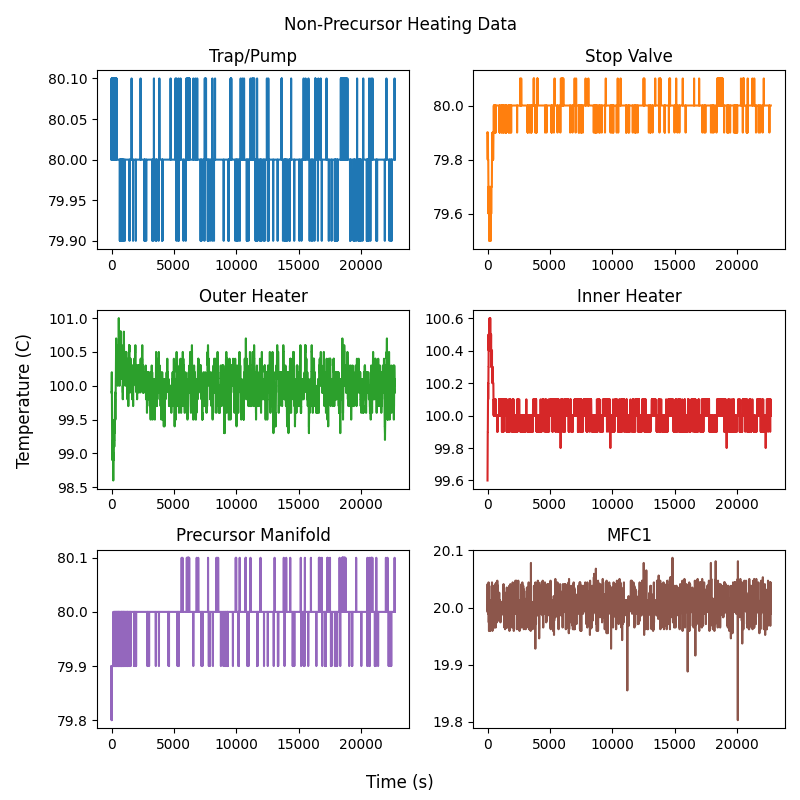
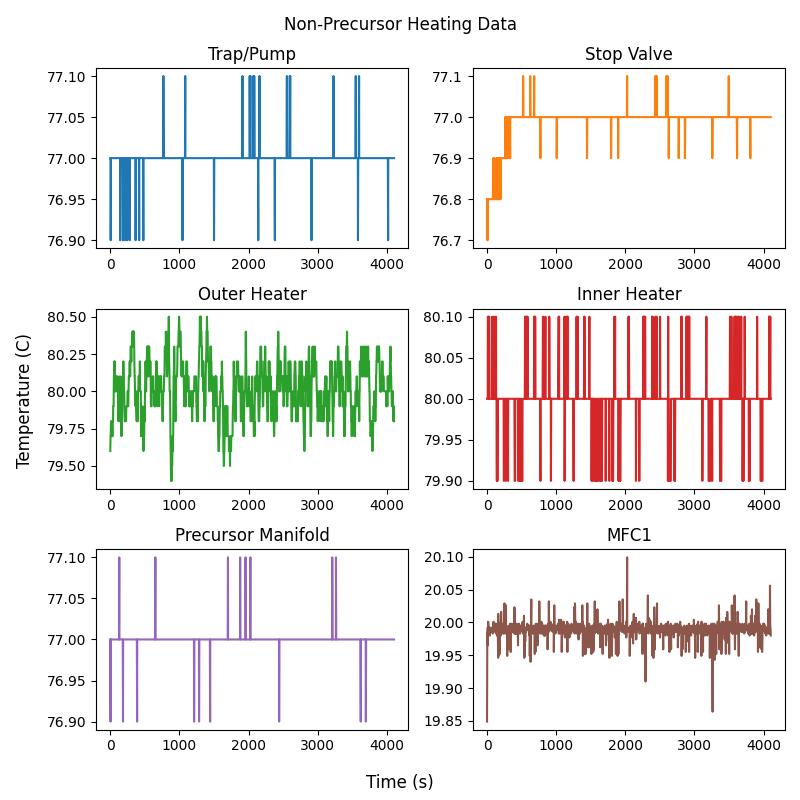
improved heating and pressure, working on updating gui info

diff --git a/testGUI.py b/testGUI.py
@@ -2,8 +2,7 @@ import tkinter as tk
 from tkinter import *
 from PIL import Image, ImageTk
 
-
-# default number of entries = 5 (Approx 8 seconds to load if all enourmous files)
+# default number of entries = 5
 e = 5
 
 from Pressure import Pressure
@@ -31,11 +30,11 @@ def save_and_open_new_window():
         root.destroy()  # Close the current window
         open_new_window()
 
-
 def quit_app():
     root.quit()
 
-
+def on_vertical(event):
+    canvas.yview_scroll(-1 * event.delta, 'units')
 
 def open_new_window():
     new_window = tk.Tk()
@@ -47,16 +46,9 @@ def open_new_window():
     frame.pack(fill=tk.BOTH, expand=True)
 
     # Create a canvas
+    global canvas
     canvas = tk.Canvas(frame)
     canvas.pack(side=tk.LEFT, fill=tk.BOTH, expand=True)
-
-
-    def on_vertical(event):
-        canvas.yview_scroll(-1 * event.delta, 'units')
-
-
-    # def on_horizontal(event):
-    #     canvas.xview_scroll(-1 * event.delta, 'units')
 
     # Add a scrollbar to the canvas
     scrollbar = tk.Scrollbar(frame, orient=tk.VERTICAL, command=canvas.yview)
@@ -68,81 +60,37 @@ def open_new_window():
 
     # Bind the scroll wheel event
     canvas.bind_all('<MouseWheel>', on_vertical)
-    # canvas.bind_all('<Shift-MouseWheel>', on_horizontal)
 
     # Create another frame inside the canvas
-    
+    global second_frame
     second_frame = tk.Frame(canvas)
     canvas.create_window((0, 0), window=second_frame, anchor="nw")
 
-    
-    # for i in range(50):  # Add many labels to demonstrate the scrollbar
-    #     tk.Label(second_frame, text=f"Additional content {i + 1}").pack()
-
-    text_image_frame = tk.Frame(second_frame, bd=2, relief="groove")
-    text_image_frame.pack(pady=20, padx=20, fill=tk.X)
-
-
-
-    generate_reports(second_frame)
-    # Update the scroll region and scroll to the bottom
-    second_frame.update_idletasks()  # Ensure all widgets are drawn
-    canvas.configure(scrollregion=canvas.bbox("all"))
-    canvas.yview_moveto(1.0)  # Scroll to the bottom
-
-    # # Add a label for text
-    # h = Heating("/Users/andrew/Desktop/SNF Projects/Tool-Data/Heating-Data/2024_06_13-21-21_MV standard Al2O3 4wtr pulse first 80deg.txt", "/Users/andrew/Desktop/SNF Projects/Tool-Data/Heating-Data")
-    # p = Pressure("/Users/andrew/Desktop/SNF Projects/Tool-Data/Pressure-Data/2024_06_13-12-56_Al2O3 - STANDARD.txt", "/Users/andrew/Desktop/SNF Projects/Tool-Data/Pressure-Data")
-    # imageh = "/Users/andrew/Desktop/SNF Projects/Tool-Data/Output_Plots/Precursor Heating Data.png"
-    # imagep = "/Users/andrew/Desktop/SNF Projects/Tool-Data/Output_Plots/PressureData.png"
-    # out = h.genReport()
-    # # out = "----------------------------------------------\n\nHEATING REPORT AT 11:01:27 ON 06/20/2024\n\n----------------------------------------------\n\nCompleted Cycles: 550 / 550\n\nNumber of Precursors: 3\n\nInner Heater Final Temp: 1000.0°C\n\nOuter Heater Final Temp: 1000.0°C\n\nAverage Temp of Precursor 1: 1000.0°C\n\nAverage Temp of Precursor 2: 1000.0°C\n\nAverage Temp of Precursor 3: 1000.0°C\n\nRecipe: 100C_TiO2\n\n----------------------------------------------"
-    # text_label = tk.Label(text_image_frame, text=out, wraplength=500, justify=tk.LEFT, font=("System", 18))
-    # text_label.pack(side=tk.LEFT, padx=10, pady=10, expand=True, fill=tk.BOTH)
-
-    # # Add a label for the image
-    # img = Image.open(imageh)  # Change this to your image path
-    # img = img.resize((600,600), Image.LANCZOS)
-    # img = ImageTk.PhotoImage(img)
-    # image_label = tk.Label(text_image_frame, image=img)
-    # image_label.image = img  # Keep a reference to the image
-    # image_label.pack(side=tk.RIGHT, padx=10, pady=10)
-
-
-
+    generate_reports()
 
     quit_button_frame = tk.Frame(new_window)
     quit_button_frame.pack(side=tk.BOTTOM, fill=tk.X)
-    new_quit_button = tk.Button(second_frame, text="Quit", command=new_window.destroy)
-    new_quit_button.pack(side=tk.BOTTOM, pady=10)
+    new_quit_button = tk.Button(quit_button_frame, text="Quit", command=new_window.destroy)
+    new_quit_button.pack(pady=10)
 
     new_window.mainloop()
 
-
-
-def generate_reports(second_frame):
+def generate_reports():
     reports = []
-    h = Heating("/Users/andrew/Desktop/SNF Projects/Tool-Data/Heating-Data/2024_06_13-21-21_MV standard Al2O3 4wtr pulse first 80deg.txt", "/Users/andrew/Desktop/SNF Projects/Tool-Data/Heating-Data")
-    p = Pressure("/Users/andrew/Desktop/SNF Projects/Tool-Data/Pressure-Data")
-    p.initialize(e)
-
-    for _ in range(e):
+    for i in range(e):
         text_image_frame = tk.Frame(second_frame, bd=2, relief="groove")
         text_image_frame.pack(pady=20, padx=20, fill=tk.X)
         
         # Add a label for text
-        
+        h = Heating("/Users/andrew/Desktop/SNF Projects/Tool-Data/Heating-Data/2024_06_13-21-21_MV standard Al2O3 4wtr pulse first 80deg.txt", "/Users/andrew/Desktop/SNF Projects/Tool-Data/Heating-Data")
+        p = Pressure("/Users/andrew/Desktop/SNF Projects/Tool-Data/Pressure-Data/2024_06_13-12-56_Al2O3 - STANDARD.txt", "/Users/andrew/Desktop/SNF Projects/Tool-Data/Pressure-Data")
         imageh = "/Users/andrew/Desktop/SNF Projects/Tool-Data/Output_Plots/Precursor Heating Data.png"
-        imagep = "/Users/andrew/Desktop/SNF Projects/Tool-Data/Output_Plots/PressureData.png"
-        
-        out = p.sendData()
-        
-        # out = h.genReport()
+        out = h.genReport()
         text_label = tk.Label(text_image_frame, text=out, wraplength=500, justify=tk.LEFT, font=("System", 18))
         text_label.pack(side=tk.LEFT, padx=10, pady=10, expand=True, fill=tk.BOTH)
 
         # Add a label for the image
-        img = Image.open(imagep)  # Change this to your image path
+        img = Image.open(imageh)  # Change this to your image path
         img = img.resize((600,600), Image.LANCZOS)
         img = ImageTk.PhotoImage(img)
         image_label = tk.Label(text_image_frame, image=img)
@@ -154,9 +102,6 @@ def generate_reports(second_frame):
     for report in reports:
         report.pack_forget()
         report.pack(pady=20, padx=20, fill=tk.X)
-
-
-
 
 # Create the main window
 root = tk.Tk()

diff --git a/Pressure.py b/Pressure.py
@@ -1,11 +1,13 @@
 import matplotlib.pyplot as plt
 import timeit
 import os
+import glob
 from datetime import datetime
+
 
 class Pressure:
 
-    def __init__(self, pressureFilePath, pressureDirPath):
+    def __init__(self, pressureDirPath, pressureFilePath=""):
         # Pressure Data (Float in Torr) and Time (Float in ms)
         self.pTime = []
         self.Pressure = []
@@ -20,6 +22,8 @@ class Pressure:
         self.recipe = ""
         self.recipes = ["Al2O3", "TiO2", "HfO2", "ZrO2", "ZnO", "Ru", "Pt", "Ta2O5"]
         self.ingredientStack = []
+        self.fileStack = []
+        self.dir_list = []
 
         self.outString = ""
 
@@ -27,8 +31,8 @@ class Pressure:
     def readDir(self):
         path = self.pressureDirPath
         try:
-            dir_list = os.listdir(path)
-            self.parseTitles(dir_list)
+            self.dir_list = os.listdir(path)
+            self.parseTitles()
         except NotADirectoryError:
             print("DIRECTORY NOT FOUND, PROCESS ABORTED. \n Hint: Try putting in a valid directory path.")
             return
@@ -76,14 +80,14 @@ class Pressure:
             self.outString += "Completed Cycles: " + str(self.cycles[0] - self.cycles[-1] + 1) + "/" + str(self.cycles[0]) + "\n\n"
 
     # Parses through the titles of the files and counts how many of each recipe is in the directory
-    def parseTitles(self, dir_list):
+    def parseTitles(self):
         try:
-            foobar = dir_list[0]
+            foobar = self.dir_list[0]
         except IndexError:
             print("DIRECTORY IS EMPTY, PROCESS ABORTED. \n Hint: Try putting in a directory with files.")
             return
 
-        for i in dir_list:
+        for i in self.dir_list:
             title = i.lower()
             for j in range(self.recipes.__len__()):
                 if title.find(self.recipes[j].lower()) != -1:
@@ -92,8 +96,10 @@ class Pressure:
             if (title.find("standby") == -1) and (title.find("pulse") == -1):
                 self.ingredientStack.append("Unknown")
         
-        self.outString += "Most Recent: " + str(self.ingredientStack) + "\n\n"
+        # self.outString += "Most Recent: " + str(self.ingredientStack) + "\n\n"
 
+
+    # Generates a report of the pressure data and returns it as a string
     def genReport(self):
         self.outString = self.outString = "----------------------------------------------\n\nPRESSURE REPORT AT " + datetime.now().strftime("%H:%M:%S") + " ON " + datetime.now().strftime("%m/%d/%Y") + "\n\n----------------------------------------------\n\n"
         self.readFile()
@@ -102,10 +108,75 @@ class Pressure:
         return self.outString
 
 
+    # Plots the Pressure vs Time and saves it as a png file
+    def plotPressure(self):
+        # Plotting the Pressure vs Time
+        if (self.pTime.__len__() > 0):
+            if (self.pTime.__len__() < 1500):
+                fig, ax = plt.subplots()
+                fig.suptitle('Pressure Data')
+                fig.set_size_inches(8, 8)
+                fig.supxlabel('Time (ms)')
+                fig.supylabel('Pressure (Torr)')
+                ax.plot(self.pTime, self.Pressure)
+                fig.tight_layout()
+                plt.show()
+                fig.savefig("Output_Plots/PressureData.png")
+
+            else:
+                lastP = self.Pressure[-1500:]
+                lastT = self.pTime[-1500:]
+                fig, ax = plt.subplots(2, 1)
+                fig.suptitle('Pressure Data')
+                fig.set_size_inches(8, 8)
+                fig.supxlabel('Time (ms)')
+                fig.supylabel('Pressure (Torr)')
+                ax[0].plot(self.pTime, self.Pressure, 'tab:blue')
+                ax[1].set_title('Pressure Last 1500ms')
+                ax[1].plot(lastT, lastP, 'tab:orange', linestyle='solid')
+                fig.tight_layout()
+                # plt.show()
+                fig.savefig("Output_Plots/PressureData.png")
+
+        else:
+            print("NO DATA TO PLOT, PROCESS ABORTED. \n Hint: Try putting in a file with data.")
+            return
+
+
+    def initialize(self, e=5):
+        # tuples of (filename, creation time)
+        times = []
+        path = self.pressureFilePath
+        self.readDir()
+        listFiles = self.dir_list
+        for i in listFiles:
+            filepath = self.pressureDirPath + "/" + i
+            # get creation time
+            times.append((filepath, os.path.getctime(filepath)))
+                
+        # sort by creation time
+        times.sort(key=lambda x: x[1])
+
+        for i in range(e):
+            self.pressureFilePath = times[i][0]
+            self.fileStack.append(self.pressureFilePath)
+        
+        print("Initialized Pressure Data Stack")
+
+
+    def sendData(self):
+        self.pressureFilePath = self.fileStack.pop()
+        print(self.pressureFilePath)
+        self.plotPressure()
+        return self.genReport()
+
+
 
 def main():
     pressure = Pressure("/Users/andrew/Desktop/SNF Projects/Tool-Data/Pressure-Data/2024_06_13-12-56_Al2O3 - STANDARD.txt", "/Users/andrew/Desktop/SNF Projects/Tool-Data/Pressure-Data")
+    pressure.initialize()
     print(pressure.genReport())
+    pressure.plotPressure()
 
 
 if __name__ == "__main__":

diff --git a/Heating.py b/Heating.py
@@ -103,7 +103,6 @@ class Heating:
 
         # if the file is not empty, print out the data
         if not empty:
-            print("bruh")
             self.outString += "Completed Cycles: " + str(self.cycles[0] - self.cycles[-1] + 1) + "/" + str(self.cycles[0]) + "\n\n"
             self.outString += "Number of Precursors: " + str(self.numPrecursors) + "\n\n"
             self.outString += "Inner Heater Final Temp: " + str(self.innerHeater[-1]) + "\u00b0 C" + "\n\n"
@@ -148,6 +147,7 @@ class Heating:
             # print("Average Temp of Precursor", i+1, ":", str(round(sum/precursors[i].__len__(), 1)) +  "\u00b0 C")
 
 
+    # Generates the report and returns it as a string
     def genReport(self):
         self.outString = "----------------------------------------------\n\nHEATING REPORT AT " + datetime.now().strftime("%H:%M:%S") + " ON " + datetime.now().strftime("%m/%d/%Y") + "\n\n----------------------------------------------\n\n"
         self.readFile()
@@ -156,13 +156,66 @@ class Heating:
         return self.outString
 
 
+    # Generates a plot of the data and saves it to the Output_Plots directory
+    def plotHeating(self):
+        # Plotting the Heating Data
+        # Graph the Non-Precursor Temperature Data
+        fig, axs = plt.subplots(3, 2)
+        fig.suptitle('Non-Precursor Heating Data')
+        fig.supxlabel('Time (s)')
+        fig.supylabel('Temperature (C)')
+        fig.set_size_inches(8, 8)
+        axs[0, 0].plot(self.hTime, self.trap, 'tab:blue')
+        axs[0, 0].set_title('Trap/Pump')
+        axs[0, 1].plot(self.hTime, self.stopValve, 'tab:orange')
+        axs[0, 1].set_title('Stop Valve')
+        axs[1, 0].plot(self.hTime, self.outerHeater, 'tab:green')
+        axs[1, 0].set_title('Outer Heater')
+        axs[1, 1].plot(self.hTime, self.innerHeater, 'tab:red')
+        axs[1, 1].set_title('Inner Heater')
+        axs[2, 0].plot(self.hTime, self.pManifold, 'tab:purple')
+        axs[2, 0].set_title('Precursor Manifold')
+        axs[2, 1].plot(self.hTime, self.mfc1, 'tab:brown')
+        axs[2, 1].set_title('MFC1')
+        fig.tight_layout()
+        fig.savefig('Output_Plots/Non-Precursor Heating Data.png')
+        # plt.show()
+        
+        # Plotting the Precursor Data
+        # Graph the Precursor Temperature Data
+        if self.numPrecursors >= 0:
+            fig, axs = plt.subplots(self.numPrecursors, 1)
+            fig.suptitle('Precursor Heating Data')
+            fig.supxlabel('Time (s)')
+            fig.supylabel('Temperature (C)')
+            fig.set_size_inches(8, 8)
+            colors = ['tab:blue', 'tab:orange', 'tab:green', 'tab:red', 'tab:purple']
+            for i in range(self.numPrecursors):
+                axs[i].plot(self.hTime, self.precursors[i], colors[i])
+                axs[i].set_title('Precursor ' + str(i + 1))
+            fig.tight_layout()
+            fig.savefig('Output_Plots/Precursor Heating Data.png')
+            # plt.show()
+
+        else:
+            fig = plt.figure()
+            fig.suptitle('Precursor Heating Data')
+            fig.set_size_inches(8, 8)
+            fig.supxlabel('Time (s)')
+            fig.supylabel('Temperature (C)')
+            fig.tight_layout()
+            fig.savefig('Output_Plots/Precursor Heating Data.png')
+            # plt.show()
+            print("Graphing Aborted: No Precursor Data")
+
+
+        
+
+
 def main():
-    # print("HEATING REPORT AT" , datetime.now().strftime("%H:%M:%S"), 
-    #       "ON", datetime.now().strftime("%m/%d/%Y"))
-    # print("----------------------------------------")
-    
     heating = Heating("/Users/andrew/Desktop/SNF Projects/Tool-Data/Heating-Data/2024_06_13-21-21_MV standard Al2O3 4wtr pulse first 80deg.txt", "/Users/andrew/Desktop/SNF Projects/Tool-Data/Heating-Data")
     print(heating.genReport())
+    heating.plotHeating()
 
 
 if __name__ == "__main__":
